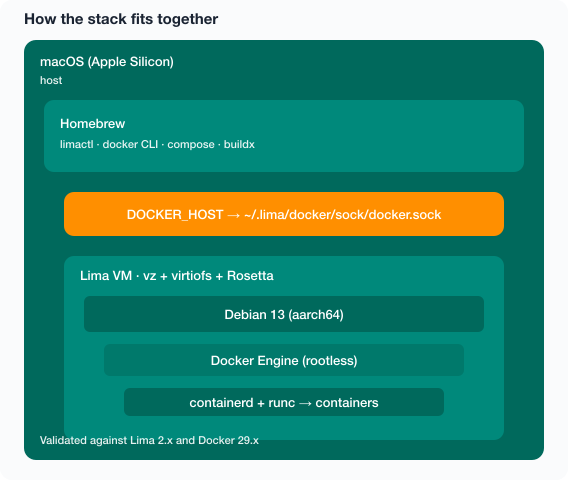
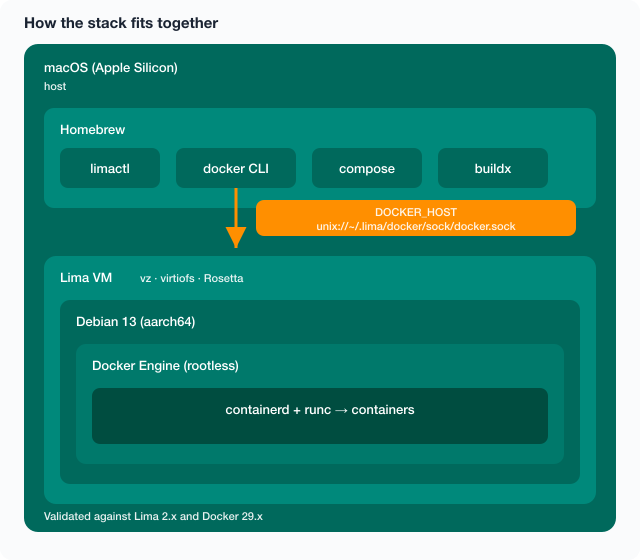
fix(docs): redraw stack diagram as real host→guest tree
DOCKER_HOST is a connection from the host docker CLI into Lima, not a
fake middle layer. Guest layers are proper nested containment.

diff --git a/scripts/generate-diagrams.py b/scripts/generate-diagrams.py
@@ -90,32 +90,47 @@ def write_install_flow() -> None:
 
 
 def write_stack() -> None:
-    body = [
-        '  <text class="title" x="24" y="24">How the stack fits together</text>',
-        # macOS host
-        f'  <rect x="24" y="40" width="520" height="420" rx="12" fill="{TEAL_DARK}"/>',
-        '  <text class="label-w" x="40" y="66">macOS (Apple Silicon)</text>',
-        '  <text class="small-w" x="40" y="84">host</text>',
-        # Homebrew
-        f'  <rect x="44" y="100" width="480" height="72" rx="10" fill="{TEAL}"/>',
-        '  <text class="label-w" x="60" y="128">Homebrew</text>',
-        '  <text class="small-w" x="60" y="148">limactl · docker CLI · compose · buildx</text>',
-        # DOCKER_HOST bridge
-        f'  <rect x="64" y="192" width="440" height="44" rx="10" fill="{AMBER_DARK}"/>',
-        '  <text class="label-w" x="284" y="219" text-anchor="middle">DOCKER_HOST → ~/.lima/docker/sock/docker.sock</text>',
-        # Lima VM container
-        f'  <rect x="64" y="256" width="440" height="184" rx="10" fill="{TEAL}"/>',
-        '  <text class="label-w" x="80" y="280">Lima VM · vz + virtiofs + Rosetta</text>',
-        # nested guest layers
-        f'  <rect x="84" y="296" width="400" height="36" rx="6" fill="{TEAL_DARK}"/>',
-        '  <text class="label-w" x="284" y="319" text-anchor="middle">Debian 13 (aarch64)</text>',
-        f'  <rect x="104" y="344" width="360" height="32" rx="6" fill="#00796B"/>',
-        '  <text class="label-w" x="284" y="365" text-anchor="middle">Docker Engine (rootless)</text>',
-        f'  <rect x="124" y="388" width="320" height="28" rx="6" fill="#00695C"/>',
-        '  <text class="label-w" x="284" y="407" text-anchor="middle">containerd + runc → containers</text>',
-        '  <text class="small-w" x="40" y="444">Validated against Lima 2.x and Docker 29.x</text>',
+    """Tree-style stack: host tools → DOCKER_HOST arrow → nested Lima guest."""
+    w, h = 640, 560
+    body: list[str] = [
+        '  <text class="title" x="24" y="28">How the stack fits together</text>',
+        f'  <rect x="24" y="44" width="592" height="488" rx="14" fill="{TEAL_DARK}"/>',
+        '  <text class="label-w" x="44" y="72">macOS (Apple Silicon)</text>',
+        '  <text class="small-w" x="44" y="90">host</text>',
+        f'  <rect x="44" y="108" width="552" height="100" rx="10" fill="{TEAL}"/>',
+        '  <text class="label-w" x="60" y="134">Homebrew</text>',
+        f'  <rect x="60" y="148" width="100" height="40" rx="8" fill="{TEAL_DARK}"/>',
+        '  <text class="label-w" x="110" y="173" text-anchor="middle">limactl</text>',
+        f'  <rect x="176" y="148" width="120" height="40" rx="8" fill="{TEAL_DARK}"/>',
+        '  <text class="label-w" x="236" y="173" text-anchor="middle">docker CLI</text>',
+        f'  <rect x="312" y="148" width="110" height="40" rx="8" fill="{TEAL_DARK}"/>',
+        '  <text class="label-w" x="367" y="173" text-anchor="middle">compose</text>',
+        f'  <rect x="438" y="148" width="110" height="40" rx="8" fill="{TEAL_DARK}"/>',
+        '  <text class="label-w" x="493" y="173" text-anchor="middle">buildx</text>',
+        f'  <line x1="236" y1="188" x2="236" y2="248" stroke="{AMBER_DARK}" stroke-width="3" marker-end="url(#arrow-amber)"/>',
+        f'  <rect x="256" y="200" width="320" height="36" rx="8" fill="{AMBER_DARK}"/>',
+        '  <text class="small-w" x="416" y="216" text-anchor="middle">DOCKER_HOST</text>',
+        '  <text class="small-w" x="416" y="230" text-anchor="middle">unix://~/.lima/docker/sock/docker.sock</text>',
+        f'  <rect x="44" y="256" width="552" height="248" rx="12" fill="{TEAL}"/>',
+        '  <text class="label-w" x="60" y="282">Lima VM</text>',
+        '  <text class="small-w" x="140" y="282">vz · virtiofs · Rosetta</text>',
+        f'  <rect x="60" y="300" width="520" height="184" rx="10" fill="{TEAL_DARK}"/>',
+        '  <text class="label-w" x="76" y="326">Debian 13 (aarch64)</text>',
+        f'  <rect x="76" y="344" width="488" height="120" rx="10" fill="#00796B"/>',
+        '  <text class="label-w" x="92" y="370">Docker Engine (rootless)</text>',
+        f'  <rect x="92" y="388" width="456" height="56" rx="8" fill="#004D40"/>',
+        '  <text class="label-w" x="320" y="414" text-anchor="middle">containerd + runc → containers</text>',
+        '  <text class="small-w" x="44" y="520">Validated against Lima 2.x and Docker 29.x</text>',
     ]
-    (OUT / "stack.svg").write_text(svg_wrap(568, 480, "\n".join(body), "Docker Lab stack diagram"))
+    svg = svg_wrap(w, h, "\n".join(body), "Docker Lab stack diagram")
+    marker = (
+        '    <marker id="arrow-amber" markerWidth="10" markerHeight="10" '
+        f'refX="7" refY="3.5" orient="auto">\n'
+        f'      <path d="M0,0 L7,3.5 L0,7 Z" fill="{AMBER_DARK}"/>\n'
+        '    </marker>\n  </defs>'
+    )
+    svg = svg.replace("</defs>", marker, 1)
+    (OUT / "stack.svg").write_text(svg)
 
 
 def write_install_steps() -> None:

diff --git a/docs/architecture.md b/docs/architecture.md
@@ -12,7 +12,22 @@ What we care about:
 
 ## Picture
 
-![Stack: macOS → Homebrew → DOCKER_HOST → Lima/Debian → rootless Docker](assets/diagrams/stack.png)
+![Stack diagram: macOS host with Homebrew tools; docker CLI connects via DOCKER_HOST into Lima VM → Debian 13 → rootless Docker → containerd](assets/diagrams/stack.png)
+
+Same tree as text (for copy/paste):
+
+```text
+macOS (Apple Silicon)
+  └── Homebrew
+        ├── limactl
+        ├── docker (CLI)  ──DOCKER_HOST──▶  Lima socket
+        ├── docker-compose
+        └── docker-buildx
+  └── Lima VM (vz + virtiofs + Rosetta)
+        └── Debian 13 (aarch64)
+              └── Docker Engine (rootless)
+                    └── containerd + runc → containers
+```
 
 We’ve been validating against Lima `2.x` and Docker `29.x`.
 